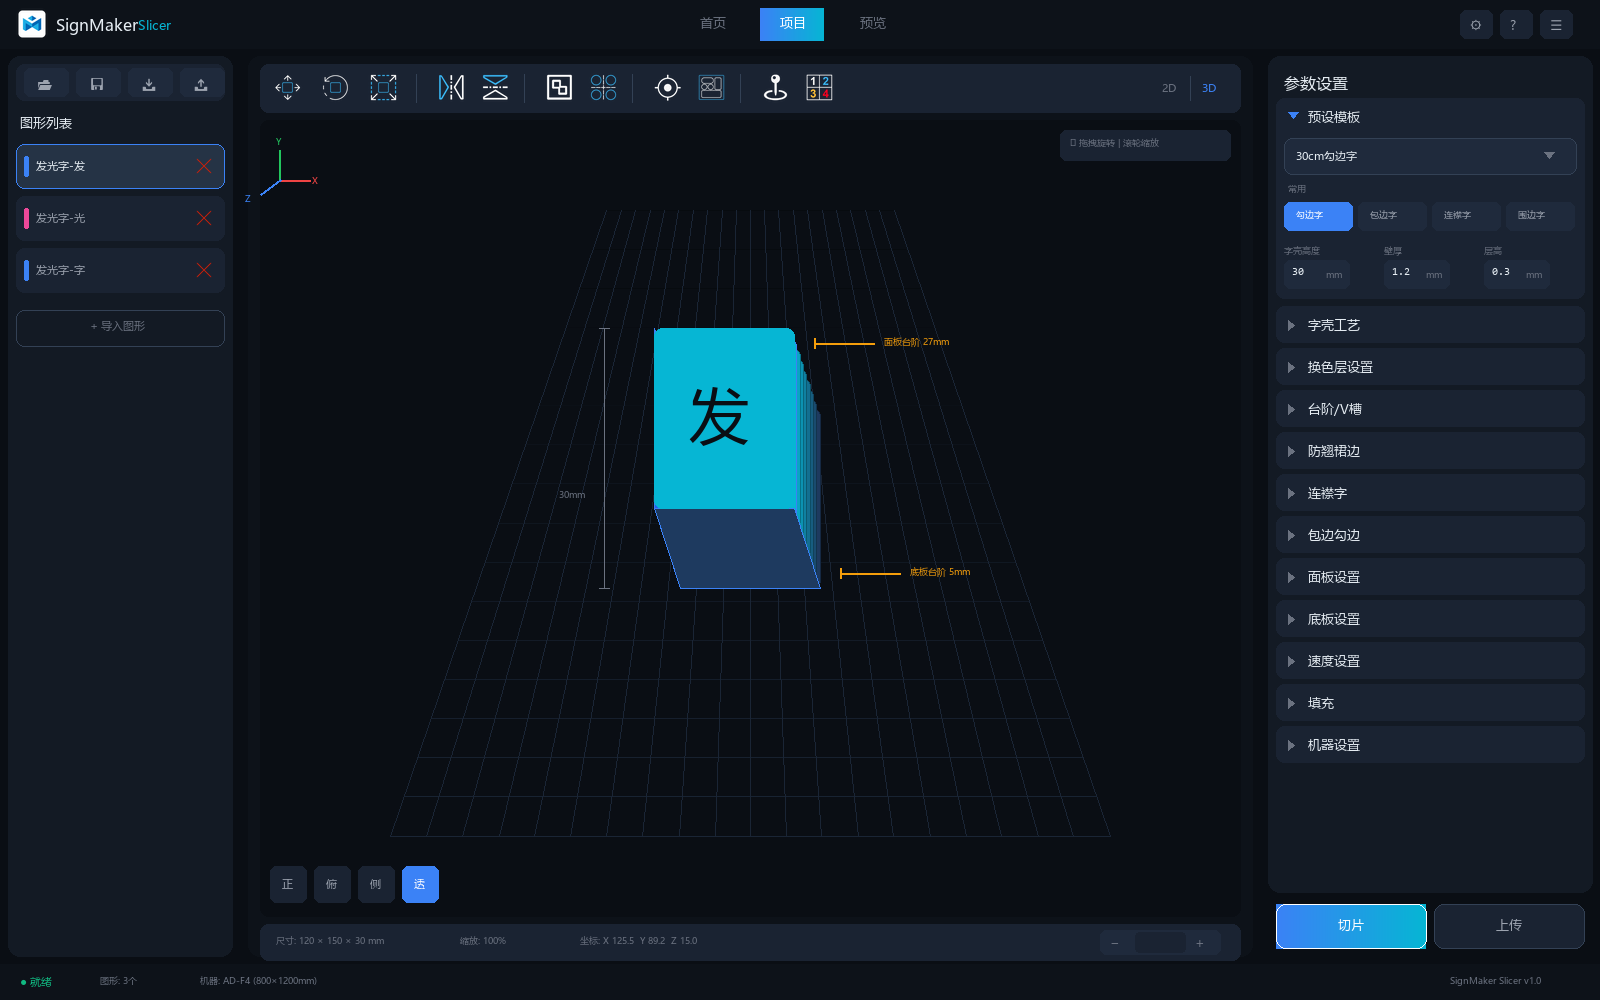
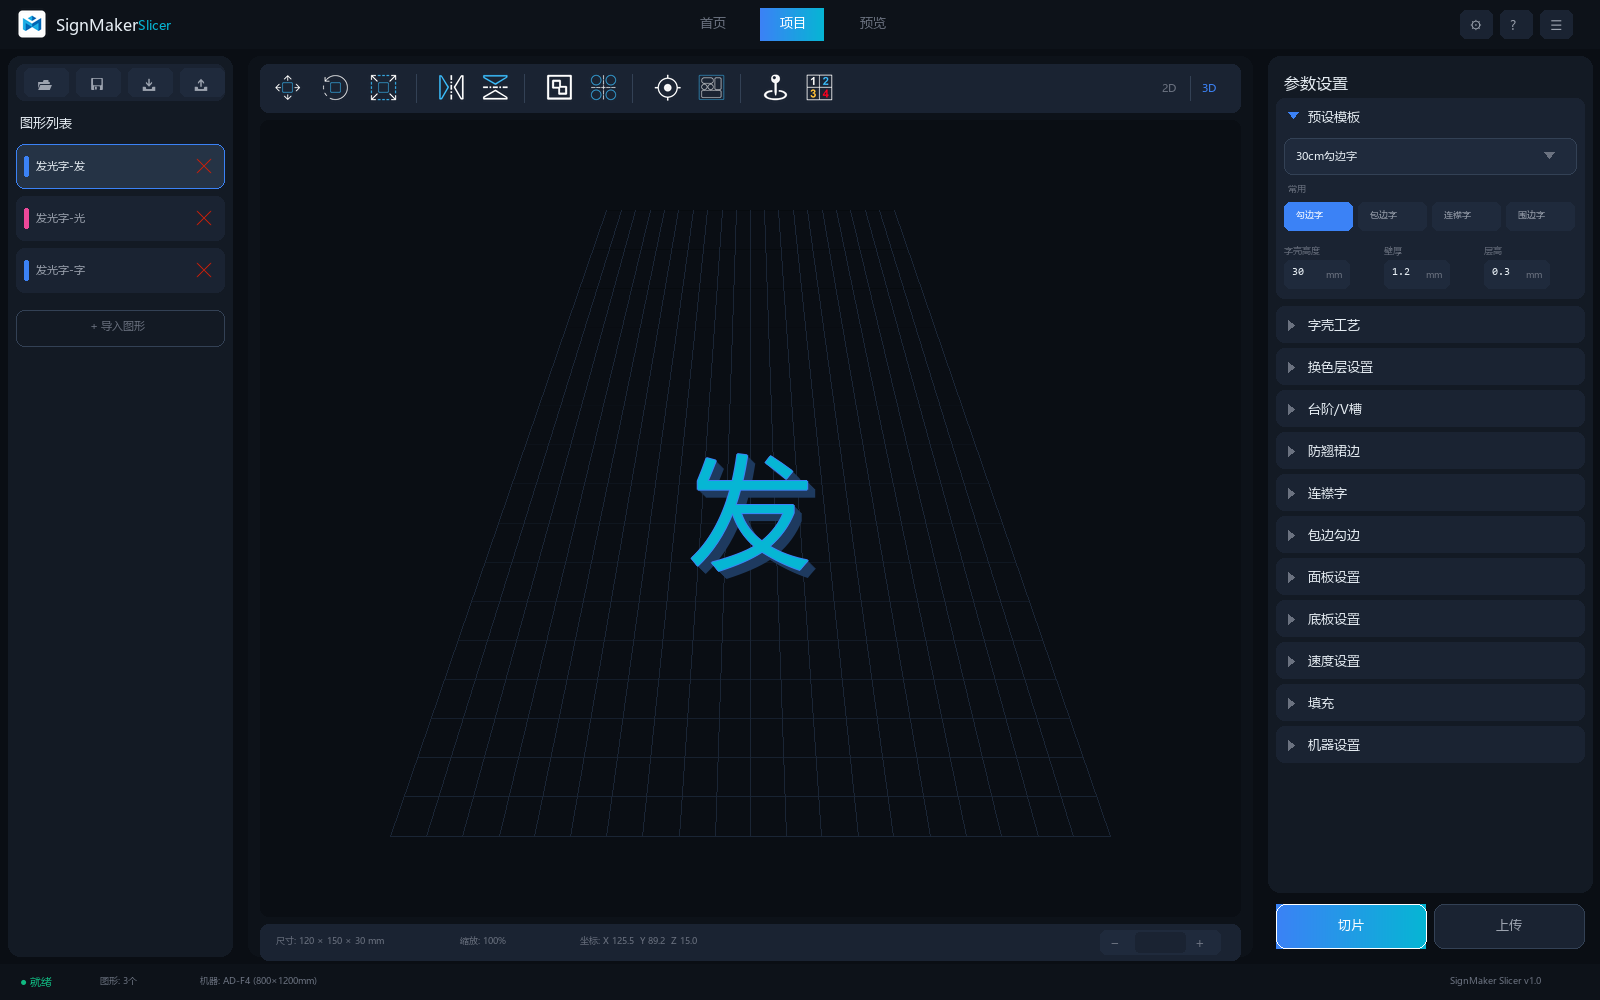
feat: 更新3D字壳模型绘制逻辑，简化代码并增强视觉效果

diff --git a/scripts/generate_ui_project_3d.py b/scripts/generate_ui_project_3d.py
@@ -329,135 +329,25 @@ for i in range(grid_lines_x):
     draw.line([(bottom_x, grid_center_y), (top_x, top_y)], fill=grid_color, width=1)
 
 # ============================================
-# 绘制3D字壳模型 - "发"字
+# 绘制3D字壳模型 - "发"字 (简单3D效果)
 # ============================================
 cx = grid_center_x
-cy = inner_canvas_y + inner_canvas_h // 2 - 20
+cy = inner_canvas_y + inner_canvas_h // 2 - 30
 
-# 字壳3D效果 - 多层堆叠
-shell_width = 140
-shell_height = 180
-shell_depth = 80  # 3D深度
+char_font = ImageFont.truetype("msyh.ttc", 120) if os.path.exists("C:\\Windows\\Fonts\\msyh.ttc") else font_large
 
-# 从底层到顶层绘制
-layers = 8
-for layer in range(layers):
-    # 计算每层的偏移和颜色
-    layer_offset = layer * (shell_depth // layers)
-    layer_ratio = layer / (layers - 1)
+# 简单3D效果 - 向右下的立体阴影
+shadow_color = C["layer_base"]
+for i in range(8, 0, -1):
+    draw_text(cx - 60 + i, cy - 60 + i, "发", char_font, shadow_color)
 
-    # 颜色渐变: 底部深蓝 -> 顶部青色
-    r = int(C["layer_base"][0] + (C["layer_top"][0] - C["layer_base"][0]) * layer_ratio)
-    g = int(C["layer_base"][1] + (C["layer_top"][1] - C["layer_base"][1]) * layer_ratio)
-    b = int(C["layer_base"][2] + (C["layer_top"][2] - C["layer_base"][2]) * layer_ratio)
-    layer_color = (r, g, b)
+# 顶层 - 青色描边
+stroke_color = C["accent_primary"]
+for offset in [(-1, 0), (1, 0), (0, -1), (0, 1)]:
+    draw_text(cx - 60 + offset[0], cy - 60 + offset[1], "发", char_font, stroke_color)
 
-    # 外边框颜色
-    border_color = C["accent_primary"] if layer == layers - 1 else tuple(int(c * 0.7) for c in layer_color)
-
-    # 3D透视偏移
-    x_offset = -layer_offset // 3
-    y_offset = -layer_offset
-
-    # 绘制层
-    left = cx - shell_width // 2 + x_offset
-    top = cy - shell_height // 2 + y_offset
-    right = cx + shell_width // 2 + x_offset
-    bottom = cy + shell_height // 2 + y_offset
-
-    # 绘制圆角矩形层
-    draw_rounded_rect(left, top, shell_width, shell_height, 8, fill=layer_color, outline=border_color)
-
-# 绘制斜边效果 (左侧面)
-left_face = [
-    (cx - shell_width // 2, cy + shell_height // 2),  # 底部左前
-    (cx - shell_width // 2 - shell_depth // 3, cy + shell_height // 2 - shell_depth),  # 底部左后
-    (cx - shell_width // 2 - shell_depth // 3, cy - shell_height // 2 - shell_depth),  # 顶部左后
-    (cx - shell_width // 2, cy - shell_height // 2),  # 顶部左前
-]
-draw.polygon(left_face, fill=C["layer_mid"], outline=C["accent_primary"])
-
-# 绘制斜边效果 (底部面)
-bottom_face = [
-    (cx - shell_width // 2, cy + shell_height // 2),  # 底部左前
-    (cx + shell_width // 2, cy + shell_height // 2),  # 底部右前
-    (cx + shell_width // 2 - shell_depth // 3, cy + shell_height // 2 - shell_depth),  # 底部右后
-    (cx - shell_width // 2 - shell_depth // 3, cy + shell_height // 2 - shell_depth),  # 底部左后
-]
-draw.polygon(bottom_face, fill=C["layer_base"], outline=C["accent_primary"])
-
-# 顶面高亮
-top_face_color = C["layer_top"]
-draw_rounded_rect(cx - shell_width // 2 - shell_depth // 3,
-                  cy - shell_height // 2 - shell_depth,
-                  shell_width, shell_height, 8,
-                  fill=top_face_color, outline=C["accent_secondary"])
-
-# 在顶面绘制"发"字轮廓
-draw_text(cx - 35 - shell_depth // 3, cy - 45 - shell_depth, "发",
-          ImageFont.truetype("msyh.ttc", 60) if os.path.exists("C:\\Windows\\Fonts\\msyh.ttc") else font_large,
-          C["bg_base"])
-
-# 台阶标注
-# 底部台阶
-step_y1 = cy + shell_height // 2 - 15
-draw.line([(cx + shell_width // 2 + 20, step_y1), (cx + shell_width // 2 + 80, step_y1)],
-          fill=C["warning"], width=2)
-draw.line([(cx + shell_width // 2 + 20, step_y1 - 5), (cx + shell_width // 2 + 20, step_y1 + 5)],
-          fill=C["warning"], width=2)
-draw_text(cx + shell_width // 2 + 90, step_y1 - 8, "底板台阶 5mm", font_small, C["warning"])
-
-# 顶部台阶
-step_y2 = cy - shell_height // 2 - shell_depth + 15
-draw.line([(cx + shell_width // 2 - shell_depth // 3 + 20, step_y2),
-           (cx + shell_width // 2 - shell_depth // 3 + 80, step_y2)],
-          fill=C["warning"], width=2)
-draw.line([(cx + shell_width // 2 - shell_depth // 3 + 20, step_y2 - 5),
-           (cx + shell_width // 2 - shell_depth // 3 + 20, step_y2 + 5)],
-          fill=C["warning"], width=2)
-draw_text(cx + shell_width // 2 - shell_depth // 3 + 90, step_y2 - 8, "面板台阶 27mm", font_small, C["warning"])
-
-# 尺寸标注 - 高度
-dim_x = cx - shell_width // 2 - shell_depth // 3 - 50
-draw.line([(dim_x, cy + shell_height // 2), (dim_x, cy - shell_height // 2 - shell_depth)],
-          fill=C["text_muted"], width=1)
-draw.line([(dim_x - 5, cy + shell_height // 2), (dim_x + 5, cy + shell_height // 2)],
-          fill=C["text_muted"], width=1)
-draw.line([(dim_x - 5, cy - shell_height // 2 - shell_depth), (dim_x + 5, cy - shell_height // 2 - shell_depth)],
-          fill=C["text_muted"], width=1)
-draw_text(dim_x - 45, cy - 10, "30mm", font_small, C["text_muted"])
-
-# 3D视图控制提示
-draw_rounded_rect(canvas_x + canvas_w - 200, inner_canvas_y + 10,
-                  170, 30, 6, fill=C["bg_card"])
-draw_text(canvas_x + canvas_w - 190, inner_canvas_y + 16, "🖱 拖拽旋转 | 滚轮缩放", font_small, C["text_muted"])
-
-# 视图快捷按钮
-view_btns = ["正", "俯", "侧", "透"]
-vbx = canvas_x + 30
-vby = inner_canvas_y + inner_canvas_h - 50
-for i, btn in enumerate(view_btns):
-    active = btn == "透"
-    if active:
-        draw_rounded_rect(vbx, vby, 36, 36, 6, fill=C["accent_primary"])
-        draw_text(vbx + 12, vby + 10, btn, font_body, (255,255,255))
-    else:
-        draw_rounded_rect(vbx, vby, 36, 36, 6, fill=C["bg_card"])
-        draw_text(vbx + 12, vby + 10, btn, font_body, C["text_secondary"])
-    vbx += 44
-
-# 坐标轴指示器
-axis_x = canvas_x + 40
-axis_y = inner_canvas_y + 60
-# X轴 (红)
-draw.line([(axis_x, axis_y), (axis_x + 30, axis_y)], fill=(239, 68, 68), width=2)
-draw_text(axis_x + 32, axis_y - 6, "X", font_small, (239, 68, 68))
-# Y轴 (绿)
-draw.line([(axis_x, axis_y), (axis_x, axis_y - 30)], fill=(34, 197, 94), width=2)
-draw_text(axis_x - 4, axis_y - 45, "Y", font_small, (34, 197, 94))
-# Z轴 (蓝)
-draw.line([(axis_x, axis_y), (axis_x - 20, axis_y + 15)], fill=(59, 130, 246), width=2)
-draw_text(axis_x - 35, axis_y + 12, "Z", font_small, (59, 130, 246))
+# 顶层填充
+draw_text(cx - 60, cy - 60, "发", char_font, C["layer_top"])
 
 # 底部信息栏
 info_y = inner_canvas_y + inner_canvas_h + 8
